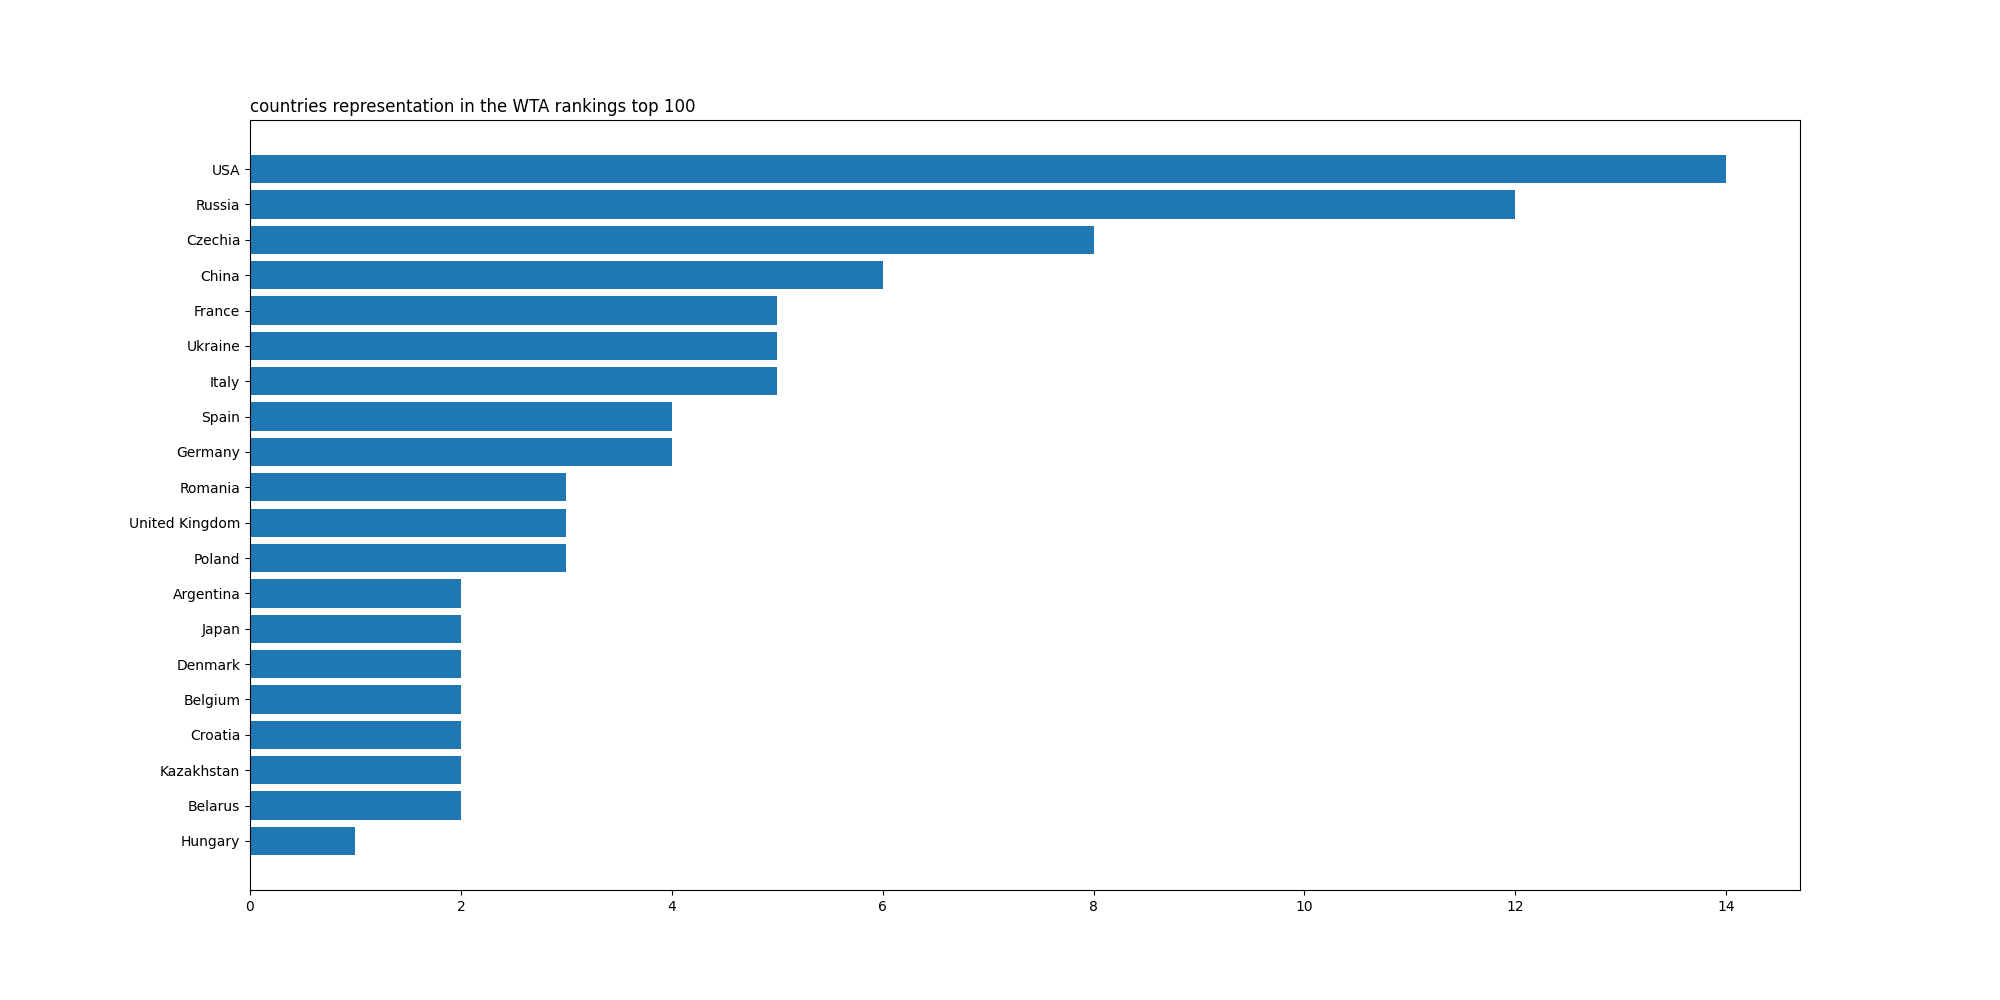
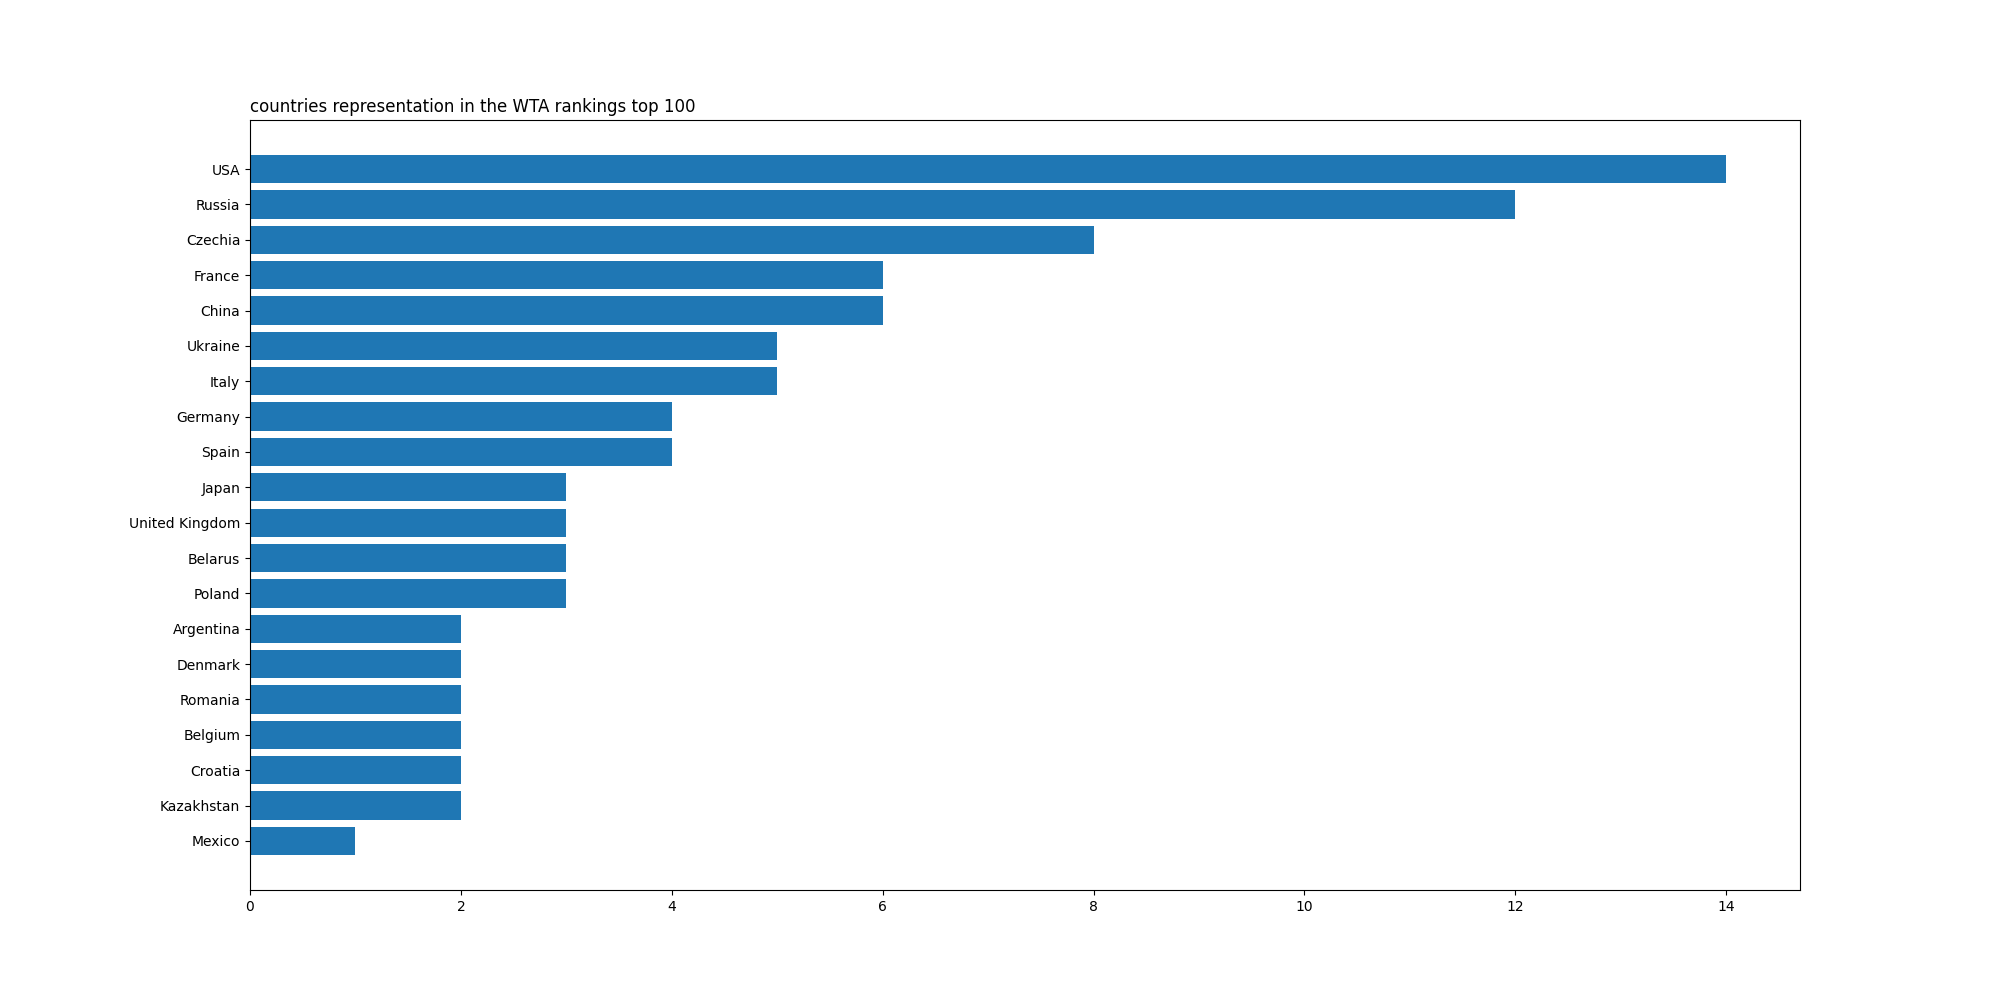
a bunch of fixes to yesterdays additions, some db clean up and a bit more meet on the first data story

diff --git a/templates/WTAcountries.html b/templates/WTAcountries.html
@@ -7,4 +7,49 @@
     <link rel="stylesheet" href="https://cdn.jsdelivr.net/npm/bulma@1.0.1/css/bulma.min.css" >
     <title>A Data Story</title>
 </head>
+<section class = "section">
+    <h1 class="title">Which country rules the WTA?</h1>
+    <h2 class = "subtitle">
+        We wanted to understand in which countries women's tennis is strong and how this has evolved during the past 10 years. 
+    </h2>
+</section>
+<section class = "section"> 
+    <div class="box">
+        The first piece of data that we want to show you, is a little graph that holds the top 20 nations in the WTA if one considers the current top 100 ranks.
+        You can see how many players each country currently has representing them in the WTA top 100 players. 
+    </div>
+    <div class = "container">
+        <img src="{{ url_for('return_graph', key='top20_wta100_countries_ranked_by_appearance2024-07-29')}}" alt="top 20 countries represented in WTA 500">
+    </div>
+    <div class="box">
+        You probably noticed that the top 5 spots are currently taken by:
+        <ul>
+            {% for spot in top5 %}
+            <li>{{ spot }}</li>
+            {% endfor %}
+        </ul>
+        At the time of writing, both the USA and Russia have a big lead over the rest of the world. For avid tennis fans this is hardly surprising. 
+    </div>
+</section>
+<br>
+<section class = "section">
+    <div class = "box">
+        Lets look at our second piece of data. Here we asked ourselves the same question, "Which country rules the WTA?" but we broadened the dataset. 
+        Now instead of looking only at the elite top 100, we widened it to the best 500 ranked players. 
+    </div>
+    <div class = "container">
+        <img src="{{ url_for('return_graph', key='top20_wta500_countries_ranked_by_appearance2024-07-29')}}" alt="top 20 countries represented in WTA 500">
+    </div>
+    <div class = "box">
+        Keen eyed readers probaby already spotted some fascinating differences. Let's look at the top 5 again:   
+    </div>
+    <ul>
+        {% for rank in top5_500 %}
+        <li>{{ rank }}</li>
+        {% endfor %}
+    </ul>
+    <div class = "box">
+        As one can see, Japan has made it all the way to top 4, beating China out of the top 5.
+    </div>
+</section>
 </html>

diff --git a/templates/index.html b/templates/index.html
@@ -21,12 +21,8 @@
             The first story we have to tell is about countries strength in the WTA over the years.
             You can check it out by pressing the button below. 
         </div> 
-        <a class="button" href="{{ url_for('WTAcountries')}}">The WTA around the globe</a>
+        <a class="button" href="{{ url_for('WTAcountries')}}">Which country rules the WTA?</a>
     </section>
-    <section class="section">
-        <div class = "container">
-            <img src="{{ url_for('return_graph', key='comp_top20_100_5002024-07-28')}}" alt="top 20 countries represented in WTA 500">
-        </div>
-    </section>
+
     </body>
 </html>

diff --git a/analysis.py b/analysis.py
@@ -5,7 +5,7 @@ import pandas as pd
 import matplotlib
 matplotlib.use('TkAgg') 
 import matplotlib.pyplot as plt
-from db import send_graph_to_db, get_from_db
+from db import send_graph_to_db, get_from_db, send_to_db
 from datetime import datetime
 
 '''
@@ -24,7 +24,7 @@ df['Rank'] = pd.to_numeric(df['Rank'])
 df['Points'] = pd.to_numeric(df['Points'])
 '''
 
-key = 'wtaMasterList'+ datetime.today().strftime('%Y-%m-%d') #change the string here to search for different document 
+key = 'wtaMasterList' #change the string here to search for different document 
 raw = get_from_db(key)
 allList = raw['content']
 columns = ['Rank', 'Player', 'Country', 'Points']
@@ -42,8 +42,10 @@ for i in df['Country']:
         hm[i] = 1
 
 countries_ranked = sorted(hm.items(), key=lambda x:x[1])[::-1]
+send_to_db('countries_ranked', countries_ranked)
 countries = [i[0] for i in countries_ranked]
 appearances = [i[1] for i in countries_ranked]
+
 
 #creating the first grafic
 
@@ -74,6 +76,7 @@ for index, country in enumerate(df['Country']):
             hm100[country] = 1
 
 countries100_ranked = sorted(hm100.items(), key=lambda x:x[1])[::-1]
+send_to_db('countries100_ranked', countries100_ranked)
 countries100 = [i[0] for i in countries100_ranked]
 appearances100 = [i[1] for i in countries100_ranked]
 

diff --git a/app.py b/app.py
@@ -1,7 +1,9 @@
-from flask import Flask, render_template, send_file
+from flask import Flask, render_template, send_file, url_for
 import gridfs
 from io import BytesIO
-from db import get_client
+from db import get_client, get_from_db
+from datetime import datetime
+
 app = Flask(__name__)
 db = get_client()
 fs= gridfs.GridFS(db)
@@ -9,11 +11,6 @@ fs= gridfs.GridFS(db)
 @app.route('/')
 def index():
     return render_template('index.html')
-
-# @app.route('/image/<filename>')
-# def get_image(filename):
-#     image_data = fs.get_last_version(filename=filename).read()
-#     return send_file(BytesIO(image_data), mimetype='image/jpeg')
     
 @app.route('/graph/<key>')
 def return_graph(key):
@@ -27,7 +24,13 @@ def return_graph(key):
 
 @app.route('/WTAcountries', methods=('POST', 'GET'))
 def WTAcountries():
-    return render_template('WTAcountries.html')
+    top100 = get_from_db('countries100_ranked')
+    top5 = top100['content'][:5]
+    top500 = get_from_db('countries_ranked')
+    print(top500)
+    top5_500 = top500['content'][:5]
+    print(top5_500)
+    return render_template('WTAcountries.html', top5=top5, top5_500=top5_500)
 
 if __name__ == '__main__':
     app.run(debug=True)

diff --git a/db.py b/db.py
@@ -23,7 +23,8 @@ def send_to_db(key, content='test'):
 
 def get_from_db(key): 
     #return [t for t in tennis.find({"name" : key} )]
-    return tennis.find_one({'name':key})
+    name = key + datetime.today().strftime('%Y-%m-%d')
+    return tennis.find_one({'name':name})
 
 def send_graph_to_db(key):
     buffer = BytesIO()
@@ -38,6 +39,7 @@ def send_graph_to_db(key):
     tennis.insert_one(document)
 
 def return_graph(key):
+    #name = key + datetime.today().strftime('%Y-%m-%d')
     document = tennis.find_one({'name' : key})
     if document is None:
         return print('no doc found')
